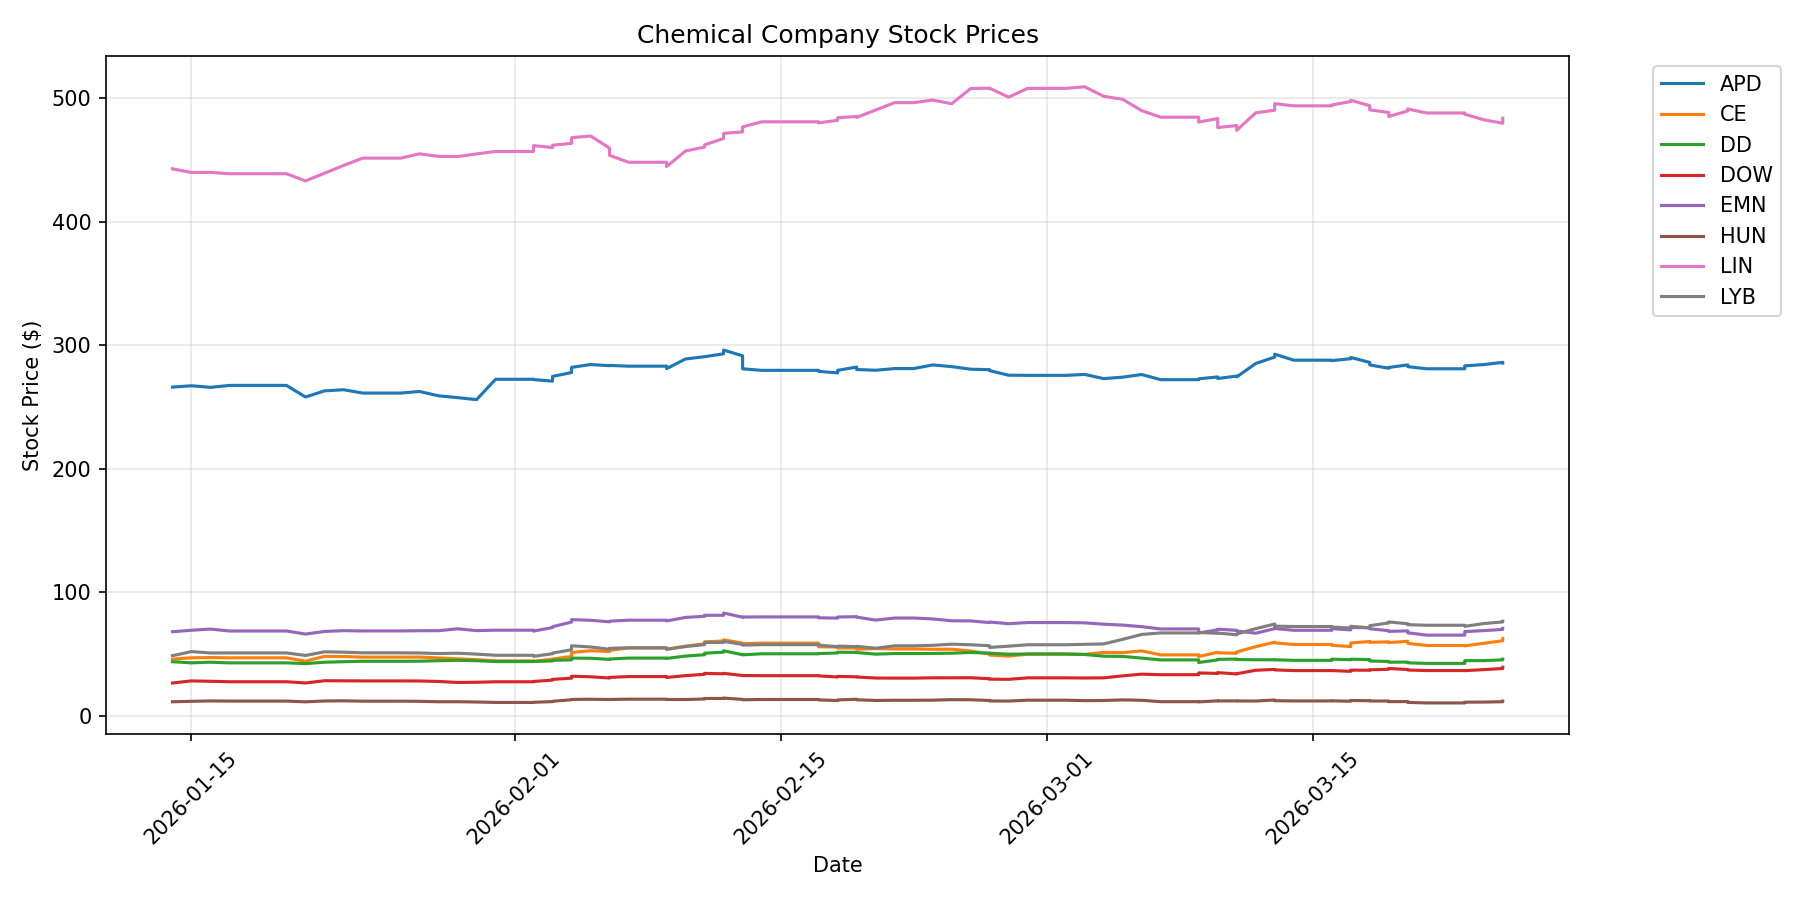
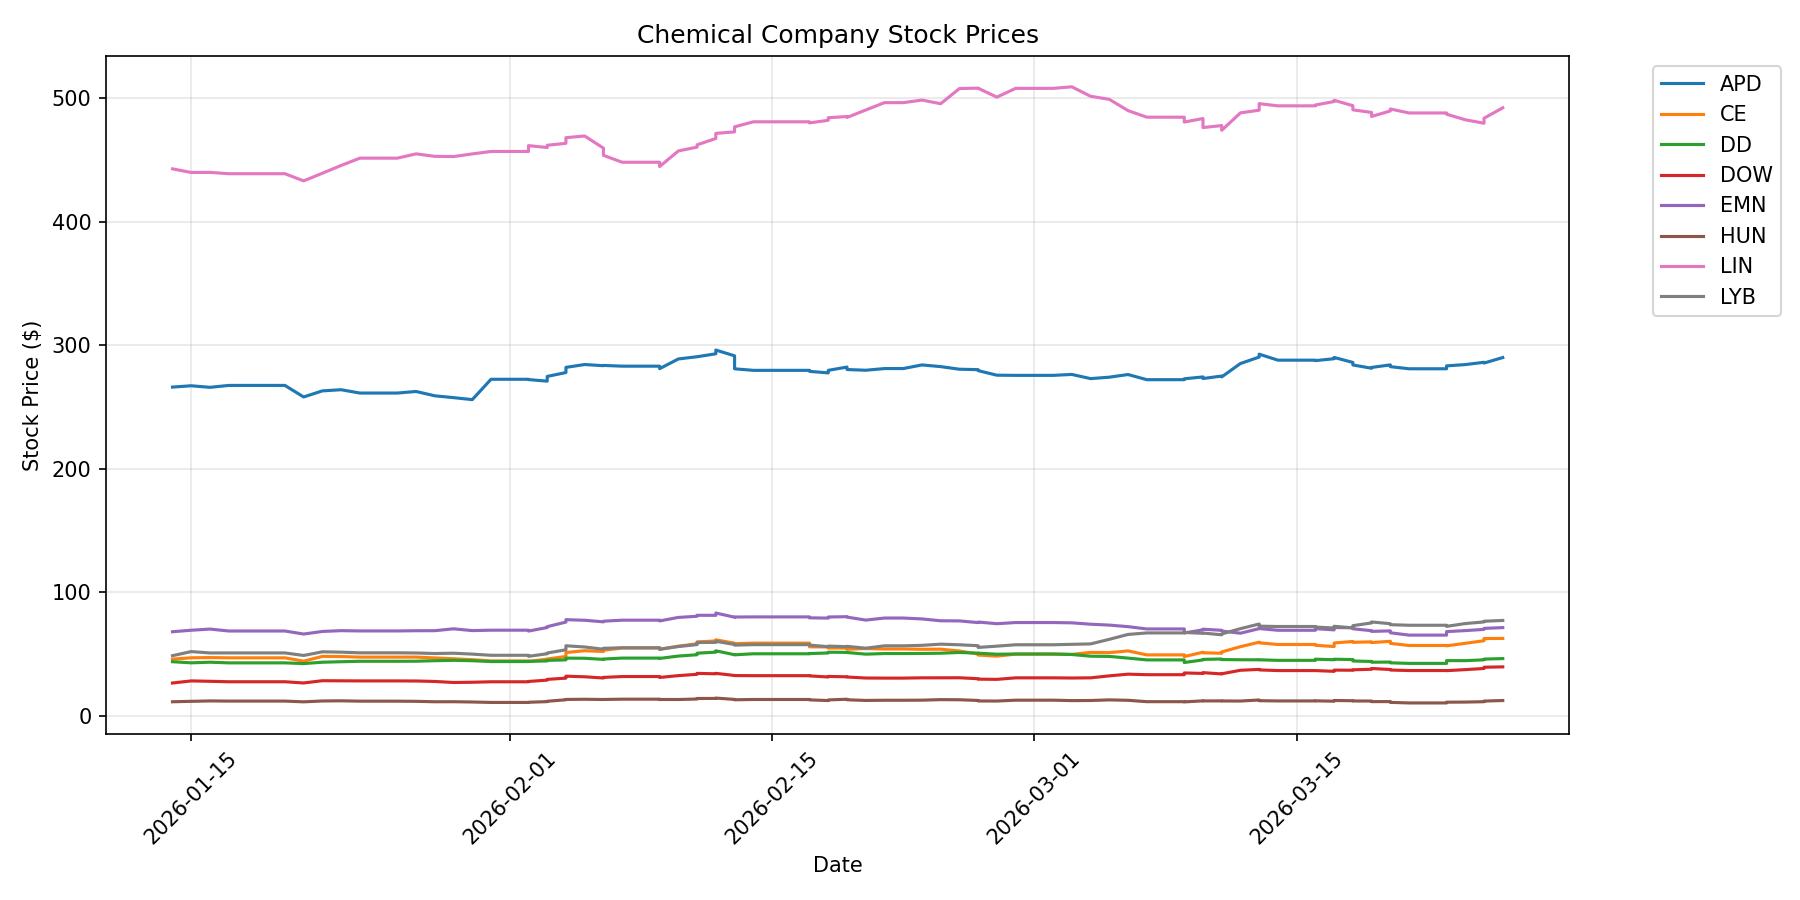
Daily price update: 2026-03-26

diff --git a/README.md b/README.md
@@ -2,29 +2,29 @@
 
 Automated daily tracking of chemical commodity prices and chemical company stocks.
 
-## Latest Prices (Updated: 2026-03-25)
+## Latest Prices (Updated: 2026-03-26)
 
 ### Energy Commodities
 
 | Commodity | Price | Change (24h) | Unit |
 |-----------|-------|--------------|------|
-| WTI Crude Oil | $88.74 | -3.61 (-3.91%) | $/barrel |
-| Brent Crude Oil | $96.22 | -8.27 (-7.91%) | $/barrel |
-| Natural Gas | $2.87 | -0.07 (-2.48%) | $/MMBtu |
-| Heating Oil | $3.72 | -0.57 (-13.29%) | $/gallon |
+| WTI Crude Oil | $90.32 | +0.00 (+0.00%) | $/barrel |
+| Brent Crude Oil | $102.22 | +0.00 (+0.00%) | $/barrel |
+| Natural Gas | $2.95 | +0.00 (+0.00%) | $/MMBtu |
+| Heating Oil | $4.01 | +0.00 (+0.00%) | $/gallon |
 
 ### Chemical Company Stocks
 
 | Company | Ticker | Price | Change (24h) |
 |---------|--------|-------|--------------|
-| Dow Inc. | DOW | $39.33 | +1.02 (+2.68%) |
-| LyondellBasell | LYB | $76.58 | +0.57 (+0.75%) |
-| DuPont | DD | $45.91 | +0.58 (+1.28%) |
-| Air Products | APD | $285.64 | -0.61 (-0.21%) |
-| Linde | LIN | $483.89 | +4.05 (+0.84%) |
-| Eastman Chemical | EMN | $70.79 | +0.84 (+1.19%) |
-| Celanese | CE | $62.55 | +1.75 (+2.88%) |
-| Huntsman | HUN | $11.92 | +0.51 (+4.47%) |
+| Dow Inc. | DOW | $39.62 | +1.31 (+3.42%) |
+| LyondellBasell | LYB | $77.19 | +1.18 (+1.55%) |
+| DuPont | DD | $46.33 | +1.00 (+2.21%) |
+| Air Products | APD | $290.09 | +3.84 (+1.34%) |
+| Linde | LIN | $492.34 | +12.50 (+2.61%) |
+| Eastman Chemical | EMN | $71.40 | +1.45 (+2.07%) |
+| Celanese | CE | $62.66 | +1.86 (+3.06%) |
+| Huntsman | HUN | $12.37 | +0.96 (+8.41%) |
 
 ## Data Sources
 

diff --git a/logs/update_log.md b/logs/update_log.md
@@ -130,3 +130,4 @@ Daily updates to the chemical engineering data repository.
 - **2026-03-24 14:24:26**: Updated 4 energy prices, 8 stocks, 0 FRED series
 - **2026-03-25 00:40:19**: Updated 4 energy prices, 8 stocks, 0 FRED series
 - **2026-03-25 14:24:17**: Updated 4 energy prices, 8 stocks, 0 FRED series
+- **2026-03-26 00:00:03**: Updated 4 energy prices, 8 stocks, 0 FRED series
